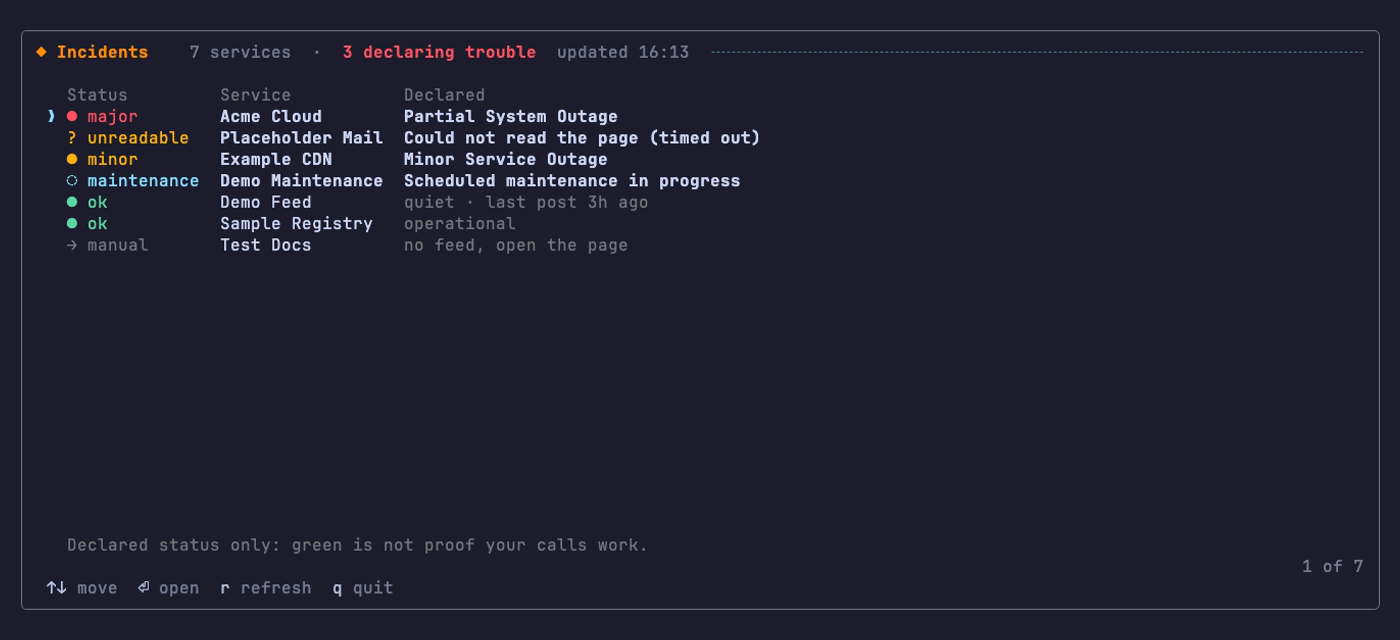
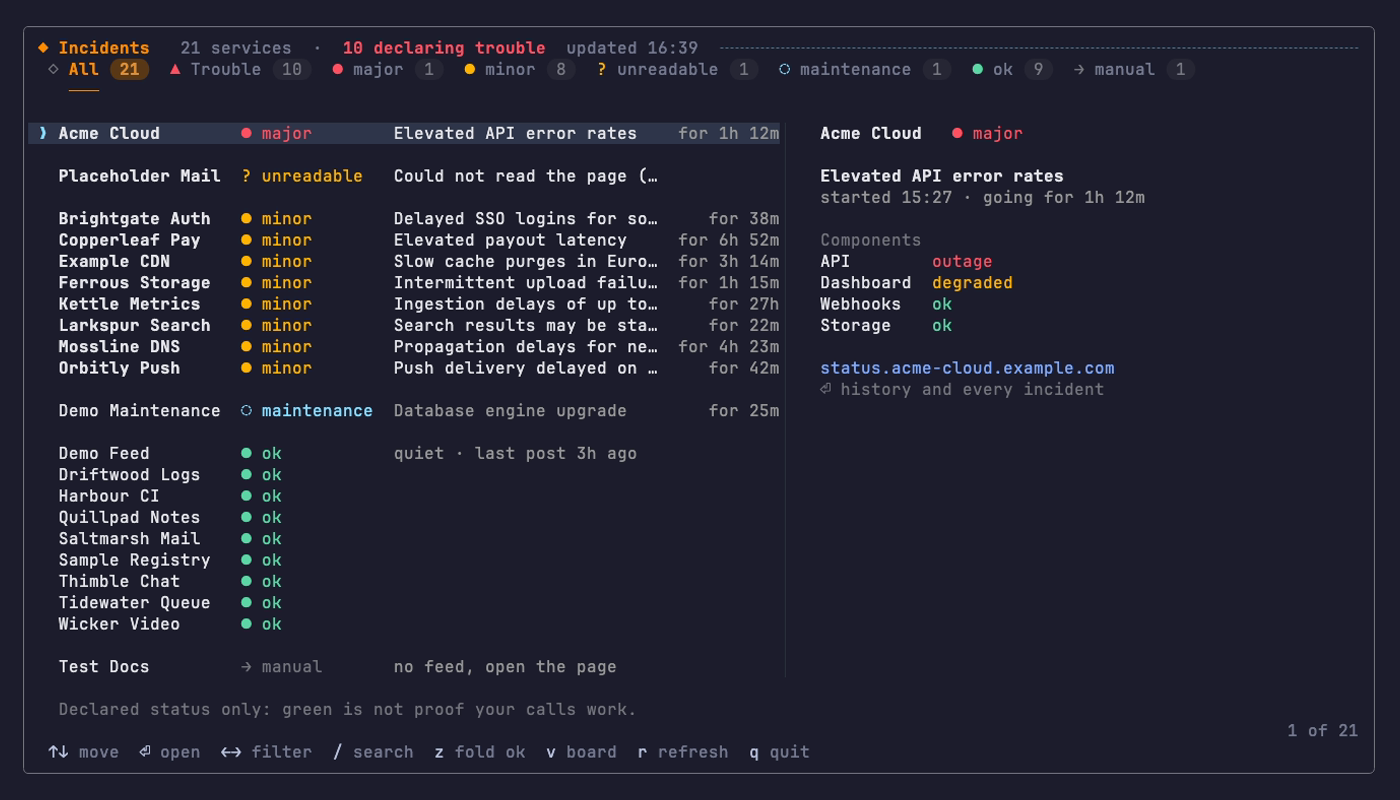
✨ feat(board): add tabs, search, fold, and scrolling
- Document the new interactive keys in README.md: ←→ or tab moves between status tabs, / searches, z folds operational services, v toggles list and board, and esc clears a search.
- Add a `view` config option (list or board) to the README example, so the board can be the default view.
- Add an offscreen() helper in src/ui/overview-board.tsx that counts cards hidden above and below the scroll window and shows a "↑↓ scroll" hint, so a scrolled board never hides cards silently.
- Add a board screenshot to the README and scripts/screenshots.zsh, and enlarge the screenshot canvas to 1400x800 with a longer sleep so the content fits.

diff --git a/src/ui/overview-board.tsx b/src/ui/overview-board.tsx
@@ -176,6 +176,25 @@ const ClearGrid = ({
   )
 }
 
+// The cards the window left out, so a scrolled board never hides one silently.
+const offscreen = (
+  lines: number[][],
+  start: number,
+  fit: number,
+  total: number,
+): string => {
+  const shown = lines.slice(start, start + fit).flat().length
+  const above = lines.slice(0, start).flat().length
+  const below = total - shown - above
+  return [
+    above ? `${above} more above` : "",
+    below ? `${below} more below` : "",
+  ]
+    .filter(Boolean)
+    .join(" · ")
+    .concat(" · ↑↓ scroll")
+}
+
 // `rows` arrive in the board's walking order (cards, then the grid), so the
 // cursor index reads straight across both.
 export const BoardOverview = ({
@@ -233,7 +252,15 @@ export const BoardOverview = ({
             ))}
           </Box>
         ))}
-        {cards.length && rest.length ? <Text> </Text> : null}
+        {lines.length > fit ? (
+          <Box paddingLeft={MARK}>
+            <Text color={colors.muted}>
+              {offscreen(lines, start, fit, cards.length)}
+            </Text>
+          </Box>
+        ) : cards.length && rest.length ? (
+          <Text> </Text>
+        ) : null}
         <ClearGrid
           rows={rest}
           offset={cards.length}

diff --git a/README.md b/README.md
@@ -6,6 +6,8 @@ It reads each vendor's own status page, worst first, and tells you what they hav
 
 ![The overview: every service, worst first](assets/overview.png)
 
+![The board: a tally, a card per service in trouble, the rest in a grid](assets/board.png)
+
 ![One service in detail: open incidents, affected components, earlier ones](assets/detail.png)
 
 ## Install
@@ -25,7 +27,7 @@ Node 22 or later.
 | `incidents list [service]` | One-shot static output: the overview, or one service's detail            |
 | `incidents services`       | One service per line: id, name, aliases (comma-separated), tab-separated |
 
-Keys in the interactive view: `↑↓` or `j k` move, `⏎` opens a service, `esc` or `⌫` goes back, `r` refreshes, `q` quits.
+Keys in the interactive view: `↑↓` or `j k` move, `⏎` opens a service, `←→` (or `tab`) moves between the status tabs (All, Trouble, then one per status), `/` searches names and aliases, `z` folds the operational services into one line, `v` switches between the list and the board, `esc` clears a search or goes back, `⌫` goes back, `r` refreshes, `q` quits. Whenever a tab, the fold or a search hides services, a line under the list says how many and which key brings them back.
 
 Add `--json` to any form for JSON records. With no TTY on stdin or stdout, or `CI` set, every form falls back to the static output (or JSON), so pipes, `$(...)` and cron never hang.
 
@@ -45,6 +47,7 @@ The interactive view exits 0 on quit.
 
 ```yaml
 timeout: 4000 # milliseconds per request, default 4000
+view: list # the view to open on: list (default) or board
 services:
   github: {} # take the built-in entry as it is
   aws:
